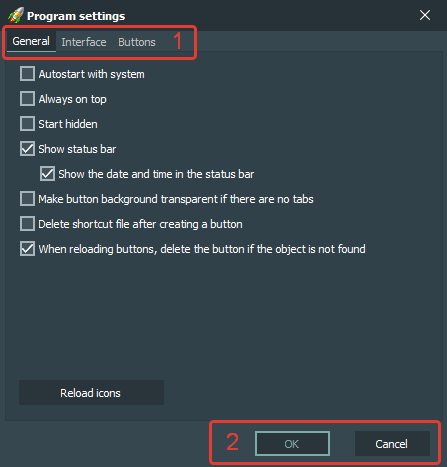
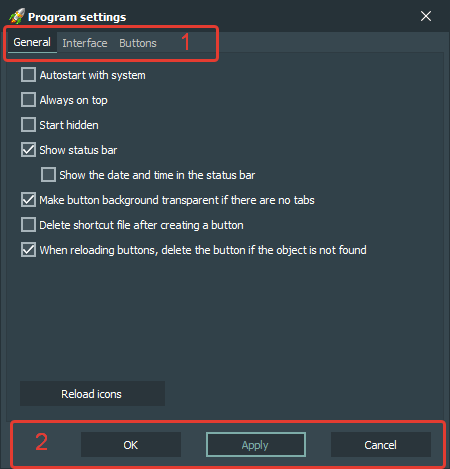
update documentation

diff --git a/docs/en/hotkeys.html b/docs/en/hotkeys.html
@@ -7,22 +7,37 @@
     <link rel="shortcut icon" href="../data/image/favicon.ico">
 	</head>
   <body class="page">
-		<table align="center" width="500" bgcolor="#AAAAAA" cellspacing="1" cellpadding="6">
+		<table align="center" width="640" bgcolor="#AAAAAA" cellspacing="1" cellpadding="6">
+			<tr>
+				<th colspan="2">Global hotkeys</th>
+			</tr>
 			<tr>
 				<td class="transparent" width="30%">
-          			<strong>Ctrl + Win</strong><br />
-					(global hotkey)
+          			<strong>Ctrl + Win</strong>
         		</td>			
-				<td class="transparent">
+					<td class="transparent">
 					Show FreeLaunch main window.
 				</td>			
 			</tr>
 			<tr>
+				<th colspan="2">Main window</th>
+			</tr>
+			<tr>
 				<td class="transparent" width="30%">
-          			<strong>Ctrl + S</strong>
+          			<strong>Alt + Left Mouse Button</strong><br />
+					(pressed on any button)
         		</td>			
 				<td class="transparent">
-					Open application settings window.
+					Move the main application window.
+				</td>			
+			</tr>
+			<tr>
+				<td class="transparent" width="30%">
+          			<strong>Ctrl + Left Mouse Button</strong><br />
+					(pressed on any button)
+        		</td>			
+				<td class="transparent">
+					Move selected button or selected tab.
 				</td>			
 			</tr>
 			<tr>
@@ -49,7 +64,61 @@
 					Terminate the application.
 				</td>			
 			</tr>
+			<tr>
+				<td class="transparent" width="30%">
+          			<strong>Ctrl + S</strong>
+        		</td>			
+				<td class="transparent">
+					Open application settings window.
+				</td>			
+			</tr>
+			<tr>
+				<th colspan="2">Settings window</th>
+			</tr>
+			<tr>
+				<td class="transparent" width="30%">
+					<strong>Enter</strong>
+			  	</td>			
+			  	<td class="transparent">
+					Press &laquo;Apply&raquo; button.
+			  	</td>			
+			</tr>
+			<tr>
+				<td class="transparent" width="30%">
+					<strong>Ctrl + Enter</strong>
+			  	</td>			
+			  	<td class="transparent">
+					Press &laquo;OK&raquo; button.
+			  	</td>			
+			</tr>
+			<tr>
+				<td class="transparent" width="30%">
+					<strong>Esc</strong>
+			  	</td>			
+			  	<td class="transparent">
+					Press &laquo;Cancel&raquo; button.
+			  	</td>			
+			</tr>
+			<tr>
+				<th colspan="2">Other windows</th>
+			</tr>
+			<tr>
+				<td class="transparent" width="30%">
+					<strong>Enter</strong>
+			  	</td>			
+			  	<td class="transparent">
+					Press &laquo;OK&raquo; button.
+			  	</td>			
+			</tr>
+			<tr>
+				<td class="transparent" width="30%">
+					<strong>Esc</strong>
+			  	</td>			
+			  	<td class="transparent">
+					Press &laquo;Cancel&raquo; button.
+			  	</td>			
+			</tr>
 		</table>
-	  <br /><br />
+	<br /><br />
   </body>
 </html>

diff --git a/docs/en/changelog.html b/docs/en/changelog.html
@@ -42,6 +42,7 @@
       <tr><td align="right" valign="top"><img src="../data/image/added.png" width="16" height="16" alt="Added" /></td><td colspan="3" align="left">Now if the object is thrown not on the button, the application looks for the nearest button and binds the object to it.</td></tr>
       <tr><td align="right" valign="top"><img src="../data/image/added.png" width="16" height="16" alt="Added" /></td><td colspan="3" align="left">Added English help file.</td></tr>
       <tr><td align="right" valign="top"><img src="../data/image/added.png" width="16" height="16" alt="Added" /></td><td colspan="3" align="left">Added F1 hotkey to open help file.</td></tr>
+      <tr><td align="right" valign="top"><img src="../data/image/added.png" width="16" height="16" alt="Added" /></td><td colspan="3" align="left">Added the ability to move the main application window using buttons (Alt + LMB).</td></tr>
       <tr><td align="right" valign="top"><img src="../data/image/updated.png" width="16" height="16" alt="Updated" /></td><td colspan="3" align="left">The "Hide after launch" option in the button propeties is now set to OFF by default.</td></tr>
       <tr><td align="right" valign="top"><img src="../data/image/updated.png" width="16" height="16" alt="Updated" /></td><td colspan="3" align="left">About and settings windows redesigned.</td></tr>
       <tr><td align="right" valign="top"><img src="../data/image/updated.png" width="16" height="16" alt="Updated" /></td><td colspan="3" align="left">Version information is always up-to-date in the About window.</td></tr>

diff --git a/docs/en/doc_settings.html b/docs/en/doc_settings.html
@@ -8,7 +8,7 @@
   </head>
   <body class="page">
     <p>
-      <img src="../data/image/en/settings.png" width="447" height="467" alt="Settings window" />
+      <img src="../data/image/en/settings.png" width="450" height="469" alt="Settings window" />
     </p>
     <p>
         <strong>Interface elements:</strong>
@@ -36,13 +36,34 @@
         <ul>
           <li>
             <strong>OK</strong><br />
-            Apply settings changes.<br /><br />
+            Apply settings changes and close settings window.<br /><br />
+          </li>
+          <li>
+            <strong>Apply</strong><br />
+            Apply settings changes without closing settings window.<br /><br />
           </li>
           <li>
             <strong>Cancel</strong><br />
             Do not apply settings changes.<br /><br />
           </li>
         </ul>
+      </li>
+    </ol>
+    <p>
+      <strong>Hotkeys:</strong>
+    </p>
+    <ol>
+      <li>
+        <strong>Enter</strong><br />
+        Pressing this hotkey applies settings changes without closing settings window.<br /><br />
+      </li>
+      <li>
+        <strong>Ctrl + Enter</strong><br />
+        Pressing this hotkey applies settings changes and closes settings window.<br /><br />
+      </li>
+      <li>
+        <strong>Esc</strong><br />
+        Pressing this hotkey closes settings window without applying settings changes.<br /><br />
       </li>
     </ol>
   </body>

diff --git a/docs/en/contributors.html b/docs/en/contributors.html
@@ -10,22 +10,31 @@
 		<table align="center" width="500" bgcolor="#AAAAAA" cellspacing="1" cellpadding="6">
 			<tr>
 				<td class="transparent" width="30%">
-          <strong>Founder</strong>
-        </td>			
-				<td class="transparent">Evgeny Koreyba</td>			
+          			<strong>Founder</strong>
+        		</td>			
+				<td class="transparent">Evgeny Koreyba (2008)</td>			
 			</tr>
 			<tr>
 				<td class="transparent" width="30%">
-          <strong>Development</strong>
-        </td>			
+					<strong>Development</strong>
+				</td>
 				<td class="transparent">
-          Evgeny Koreyba (2008-2010)<br />
-          Mykola Petrivskiy (2016-2021)<br />
-          Alexey Tatuyko (2022)
-        </td>			
+					Evgeny Koreyba (2008-2010)<br />
+					Mykola Petrivskiy (2016-2021)<br />
+					Alexey Tatuyko (2022)
+				</td>
+			</tr>
+			<tr>
+				<td class="transparent" width="30%">
+					<strong>Documentation</strong>
+				</td>
+				<td class="transparent">
+					Alexey Tatuyko (2008, 2022)<br />
+					Mykola Petrivskiy (2017)
+				</td>
 			</tr>
 		</table>
-	  <br />
+	  	<br />
 		<table align="center" width="500" bgcolor="#AAAAAA" cellspacing="1" cellpadding="6">
 			<tr>
 				<td class="transparent" width="50%">You can ask questions and make suggestions on the project GitHub page</td>			

diff --git a/docs/en/doc_mainwnd.html b/docs/en/doc_mainwnd.html
@@ -31,5 +31,38 @@
         Shows the current date and time.<br /><br />
       </li>
     </ol>
+    <p>
+      <strong>Hotkeys:</strong>
+    </p>
+    <ol>
+      <li>
+        <strong>Alt + Left Mouse Button</strong><br />
+        Holding this hotkey on any button moves the main application window.<br /><br />
+      </li>
+      <li>
+        <strong>Ctrl + Left Mouse Button</strong><br />
+        Holding this hotkey on any button moves selected button or selected tab.<br /><br />
+      </li>
+      <li>
+        <strong>F1</strong><br />
+        Pressing this hotkey opens the help file.<br /><br />
+      </li>
+      <li>
+        <strong>F2</strong><br />
+        Pressing this hotkey renames the currently open tab.<br /><br />
+      </li>
+      <li>
+        <strong>Ctrl + Q</strong><br />
+        Pressing this hotkey terminates the application.<br /><br />
+      </li>
+      <li>
+        <strong>Ctrl + S</strong><br />
+        Pressing this hotkey opens the settings window.<br /><br />
+      </li>
+      <li>
+        <strong>Ctrl + Win</strong><br />
+        Pressing this global hotkey (not only in an application) shows or hides the application's main window.<br /><br />
+      </li>
+    </ol>
   </body>
 </html>

diff --git a/docs/en/doc_btnprops.html b/docs/en/doc_btnprops.html
@@ -23,5 +23,18 @@
         Contains the properties of the selected button in the main application window, where the object is a file or folder.<br /><br />
       </li>
     </ul>
+    <p>
+      <strong>Hotkeys:</strong>
+    </p>
+    <ol>
+      <li>
+        <strong>Enter</strong><br />
+        Pressing this hotkey applies button properties changes and closes button properties window.<br /><br />
+      </li>
+      <li>
+        <strong>Esc</strong><br />
+        Pressing this hotkey closes button properties window without applying button properties changes.<br /><br />
+      </li>
+    </ol>
   </body>
 </html>

diff --git a/docs/en/doc_btnprops_apps.html b/docs/en/doc_btnprops_apps.html
@@ -71,5 +71,18 @@
         Doesn't confirm changing the properties of the selected button.<br /><br />
       </li>
     </ul>
+    <p>
+      <strong>Hotkeys:</strong>
+    </p>
+    <ol>
+      <li>
+        <strong>Enter</strong><br />
+        Pressing this hotkey applies button properties changes and closes button properties window.<br /><br />
+      </li>
+      <li>
+        <strong>Esc</strong><br />
+        Pressing this hotkey closes button properties window without applying button properties changes.<br /><br />
+      </li>
+    </ol>
   </body>
 </html>

diff --git a/docs/en/doc_btnprops_files.html b/docs/en/doc_btnprops_files.html
@@ -51,5 +51,18 @@
         Doesn't confirm changing the properties of the selected button.<br /><br />
       </li>
     </ul>
+    <p>
+      <strong>Hotkeys:</strong>
+    </p>
+    <ol>
+      <li>
+        <strong>Enter</strong><br />
+        Pressing this hotkey applies button properties changes and closes button properties window.<br /><br />
+      </li>
+      <li>
+        <strong>Esc</strong><br />
+        Pressing this hotkey closes button properties window without applying button properties changes.<br /><br />
+      </li>
+    </ol>
   </body>
 </html>

diff --git a/docs/en/doc_renametab.html b/docs/en/doc_renametab.html
@@ -27,5 +27,18 @@
         Doesn't confirm the name change of the selected tab.<br /><br />
       </li>
     </ol>
+    <p>
+      <strong>Hotkeys:</strong>
+    </p>
+    <ol>
+      <li>
+        <strong>Enter</strong><br />
+        Pressing this hotkey applies tab properties changes and closes tab properties window.<br /><br />
+      </li>
+      <li>
+        <strong>Esc</strong><br />
+        Pressing this hotkey closes tab properties window without applying tab properties changes.<br /><br />
+      </li>
+    </ol>
   </body>
 </html>

diff --git a/docs/en/doc_btnprops_iconsel.html b/docs/en/doc_btnprops_iconsel.html
@@ -31,5 +31,18 @@
         Doesn't confirm changing the icon of the selected button.<br /><br />
       </li>
     </ul>
+    <p>
+      <strong>Hotkeys:</strong>
+    </p>
+    <ol>
+      <li>
+        <strong>Enter</strong><br />
+        Pressing this hotkey applies button icon changes and closes button icon window.<br /><br />
+      </li>
+      <li>
+        <strong>Esc</strong><br />
+        Pressing this hotkey closes button icon window without applying button icon changes.<br /><br />
+      </li>
+    </ol>
   </body>
 </html>

diff --git a/docs/en/doc_settingstab_general.html b/docs/en/doc_settingstab_general.html
@@ -8,7 +8,7 @@
   </head>
   <body class="page">
     <p>
-      <img src="../data/image/en/settings1.png" width="450" height="467" alt="Settings window - Tab General" />
+      <img src="../data/image/en/settings1.png" width="450" height="469" alt="Settings window - Tab General" />
     </p>
     <p>
         <strong>General options:</strong>
